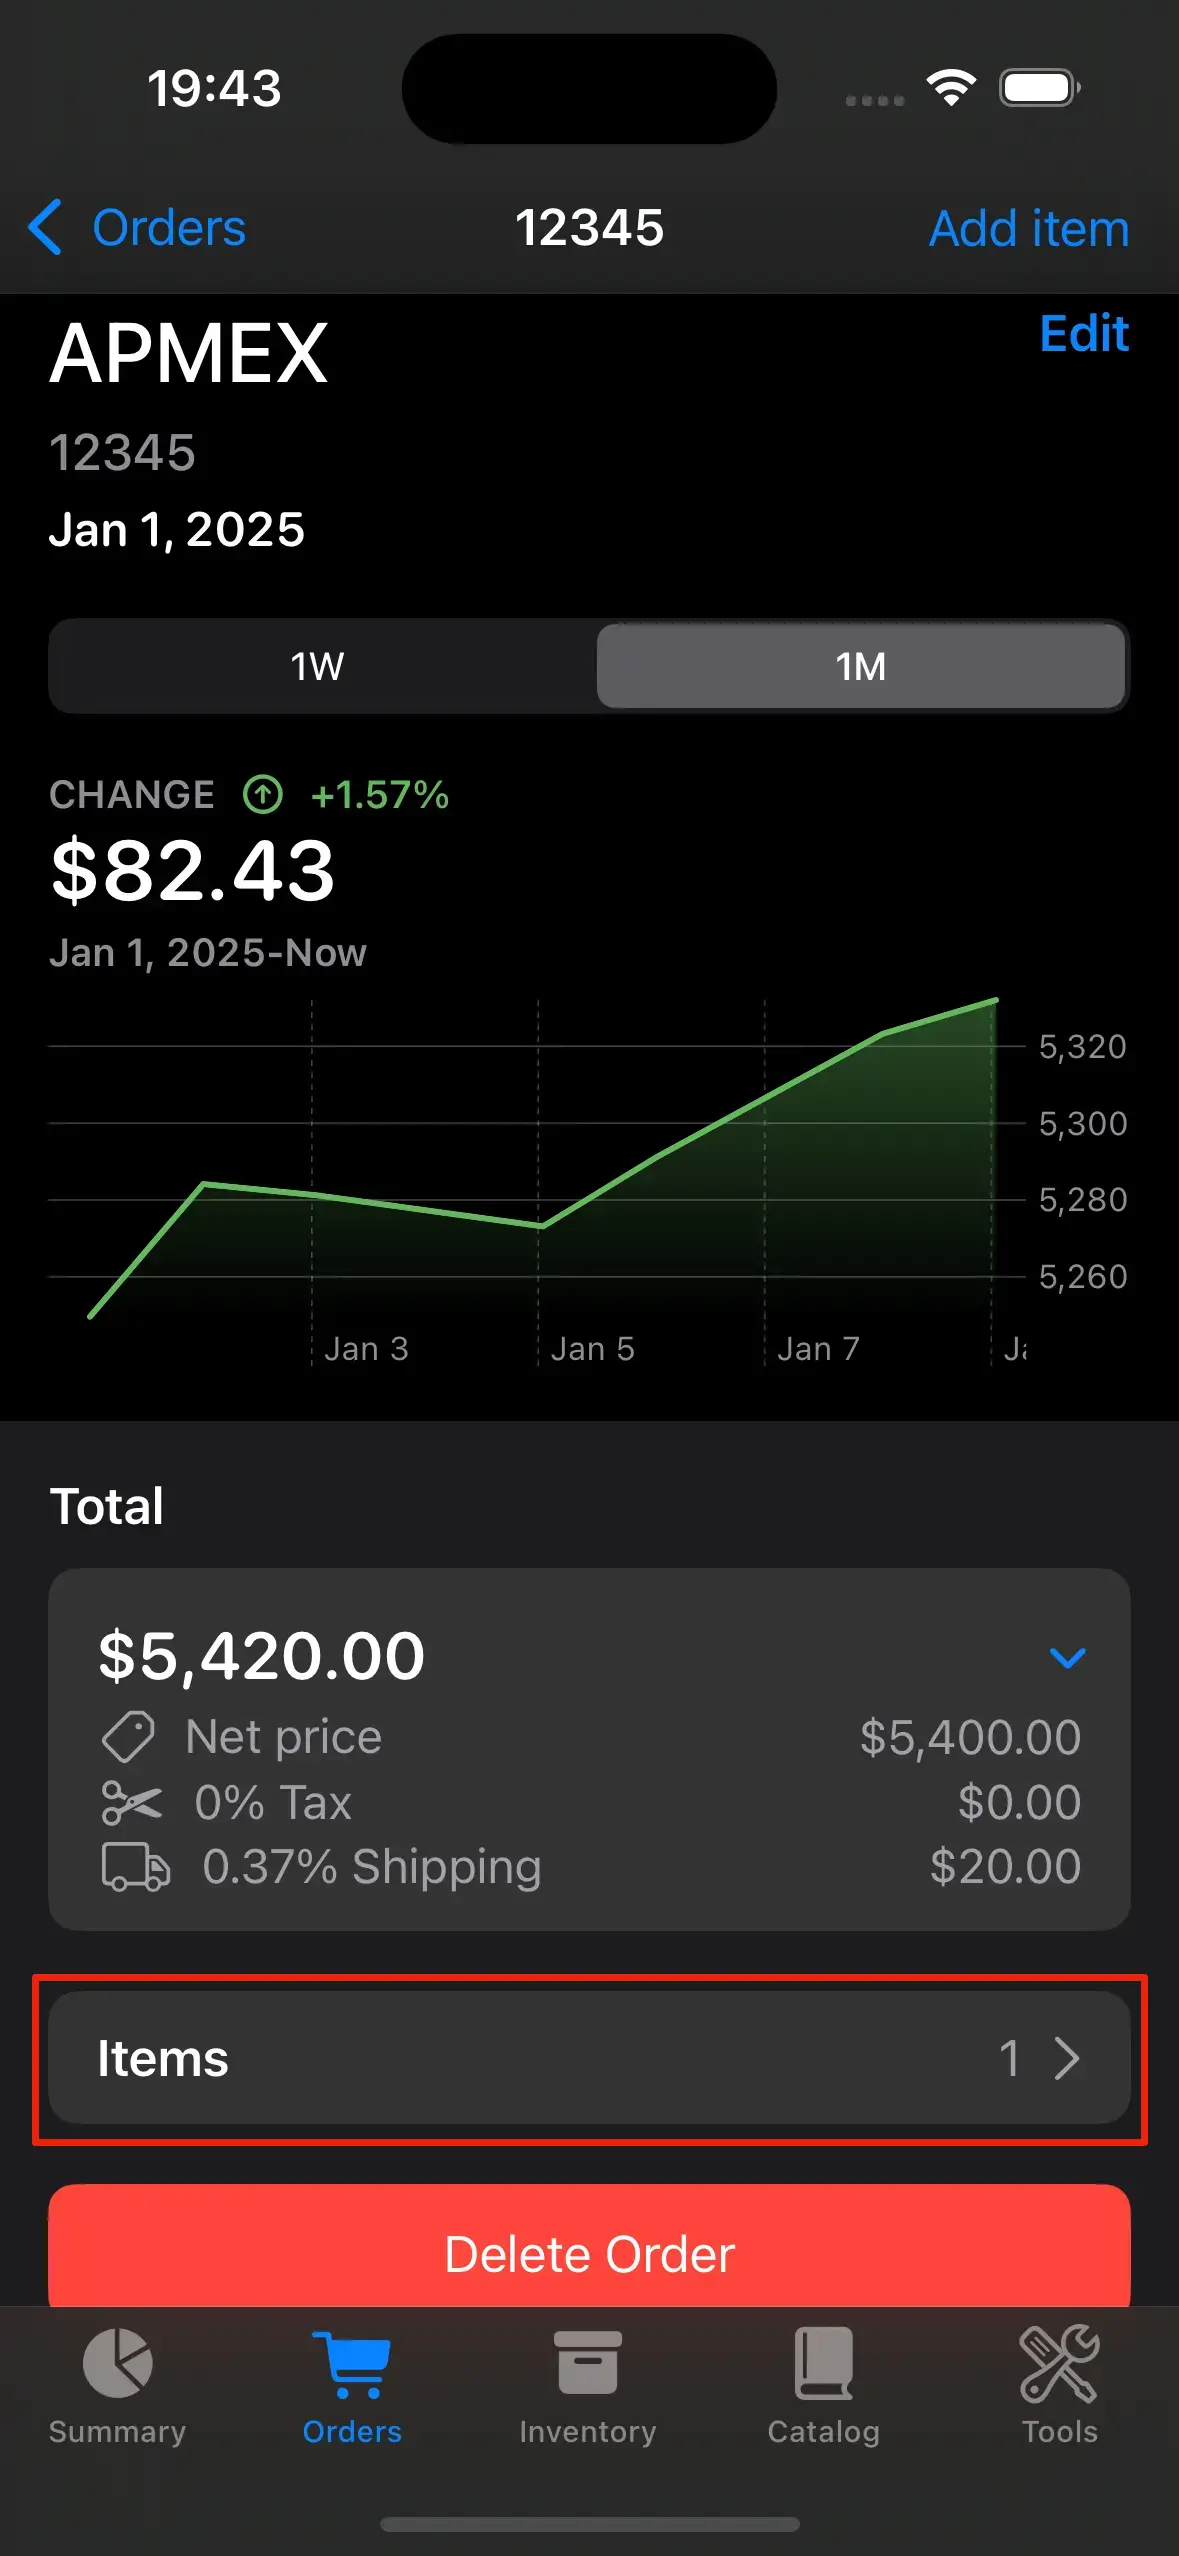
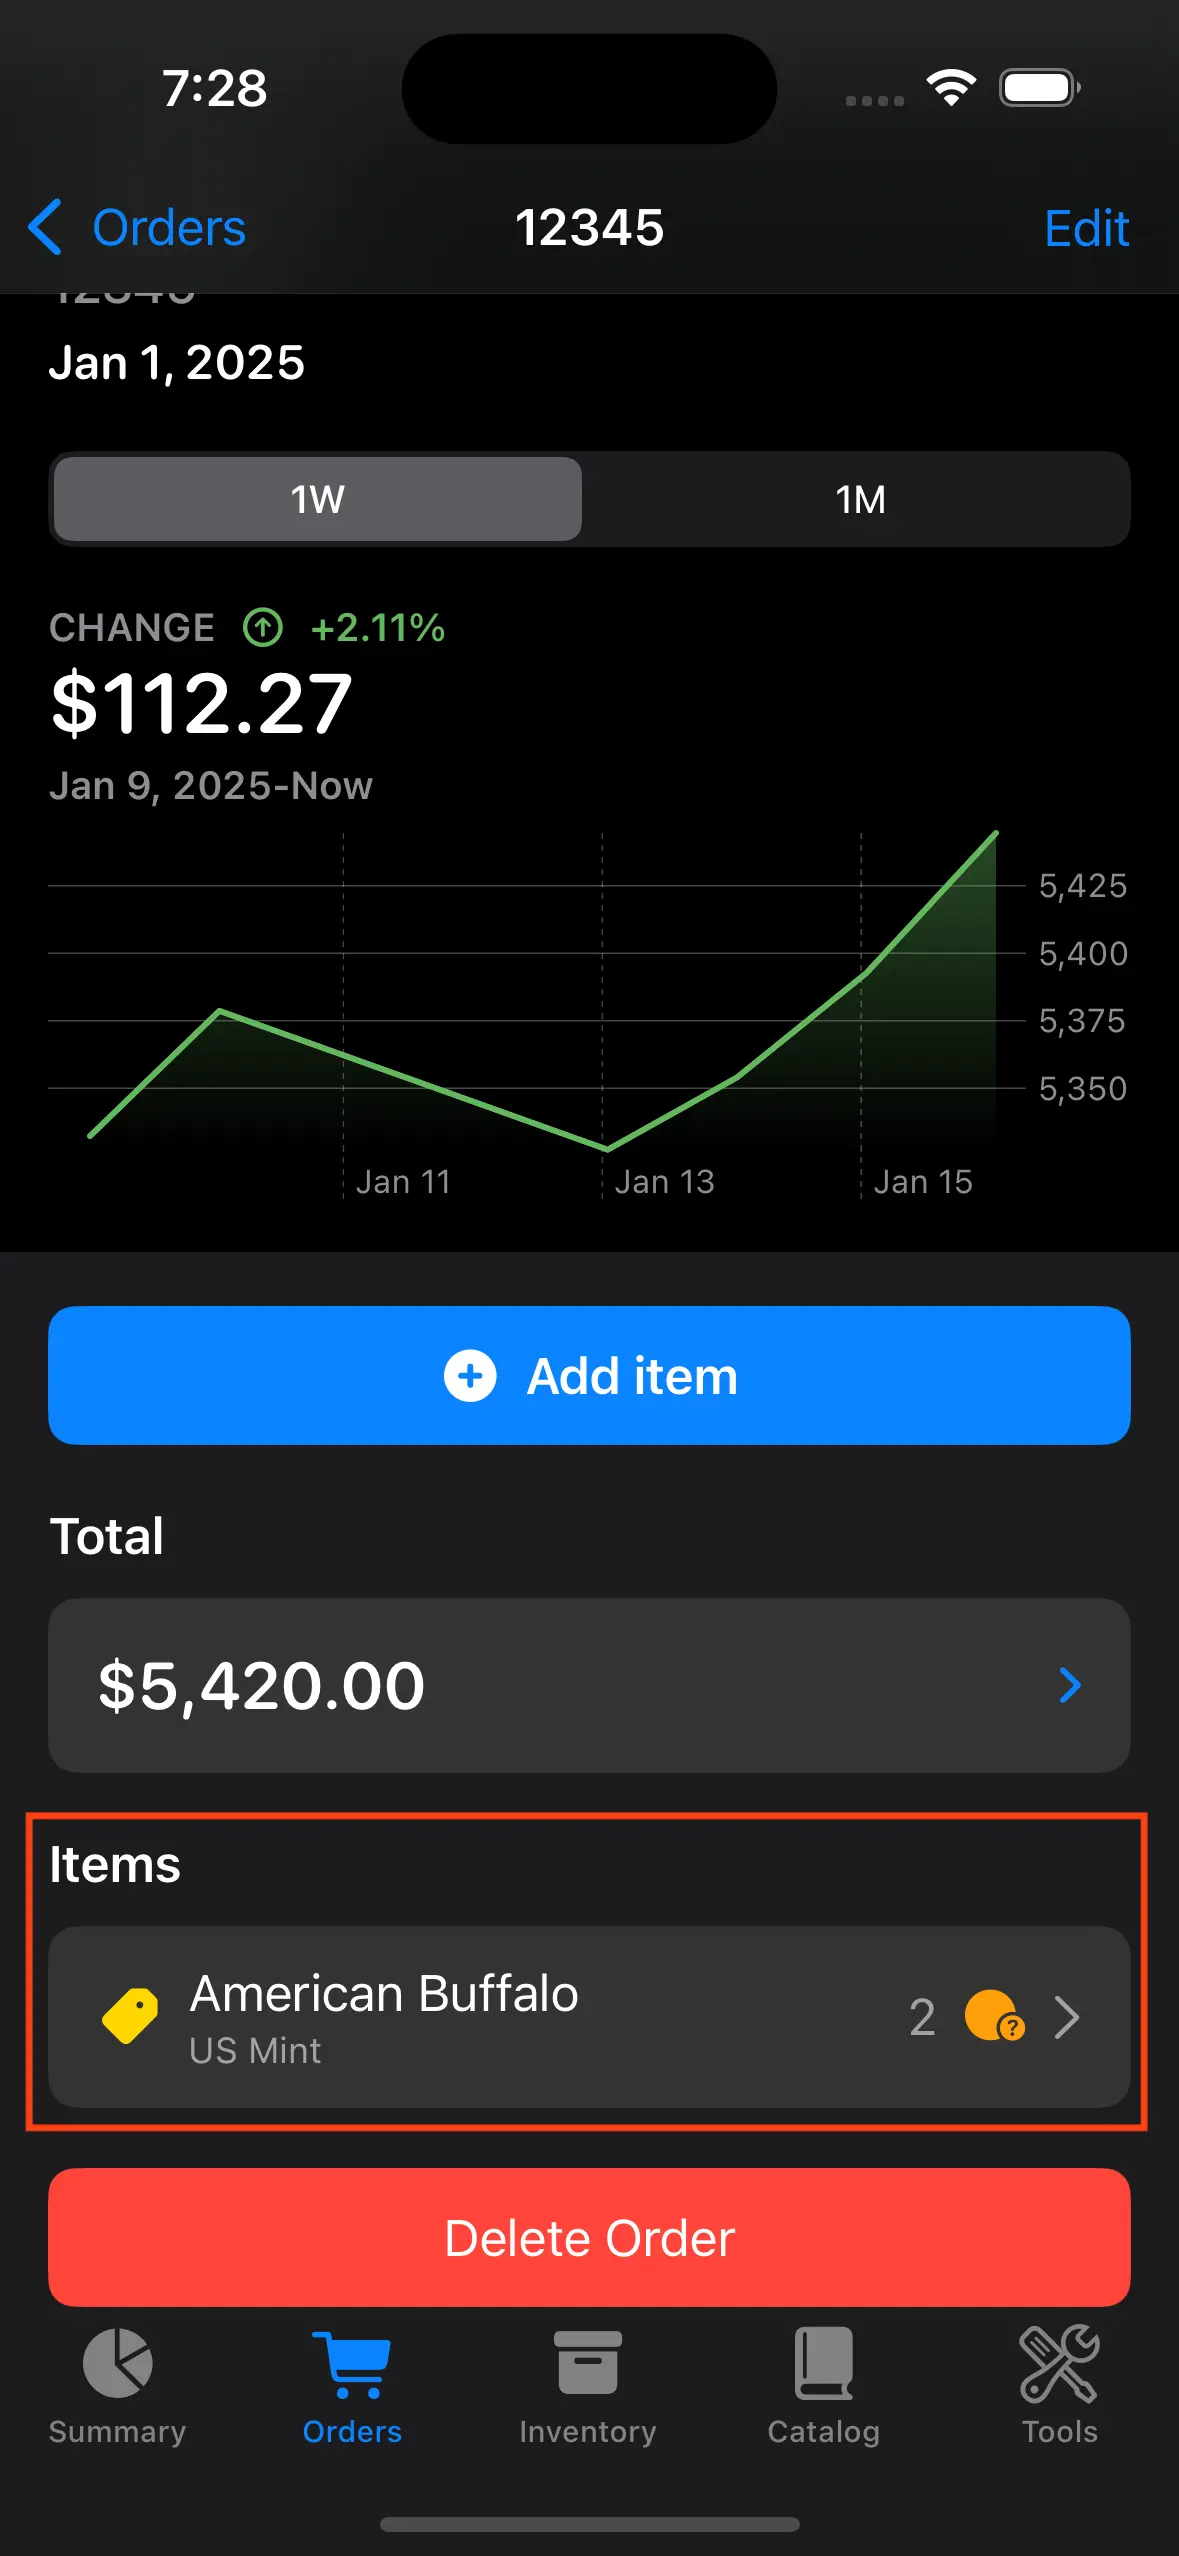
Update create item screenshots

Changed region(s): [[0.0, 0.3091, 1.0, 0.9581], [0.0305, 0.0618, 0.9771, 0.4327], [0.1221, 0.0309, 0.2443, 0.0618]]

diff --git a/_getting-started/create-item.md b/_getting-started/create-item.md
@@ -16,14 +16,14 @@ When you make a purchase at a coin shop or from another individual, you are buyi
    data_dark="/assets/images/dark/orders_one_order_dark.webp"
    alt="Tap on order" %}
 
-2) Tap on "Add item" button on the top right.
+2) Tap on "+ Add item" button on the top right.
 
 {% include theme-image.html
    data_light="/assets/images/light/add_order_button_light.webp"
    data_dark="/assets/images/dark/add_order_button_dark.webp"
    alt="Add item button" %}
 
-> Alternatively, you can create an item from the list of orders by long-pressing on an order or from the list of order items screen.
+> Alternatively, you can create an item from the list of orders by long-pressing on an order.
 
 3) The input screen for registering a new item consists of:
 
